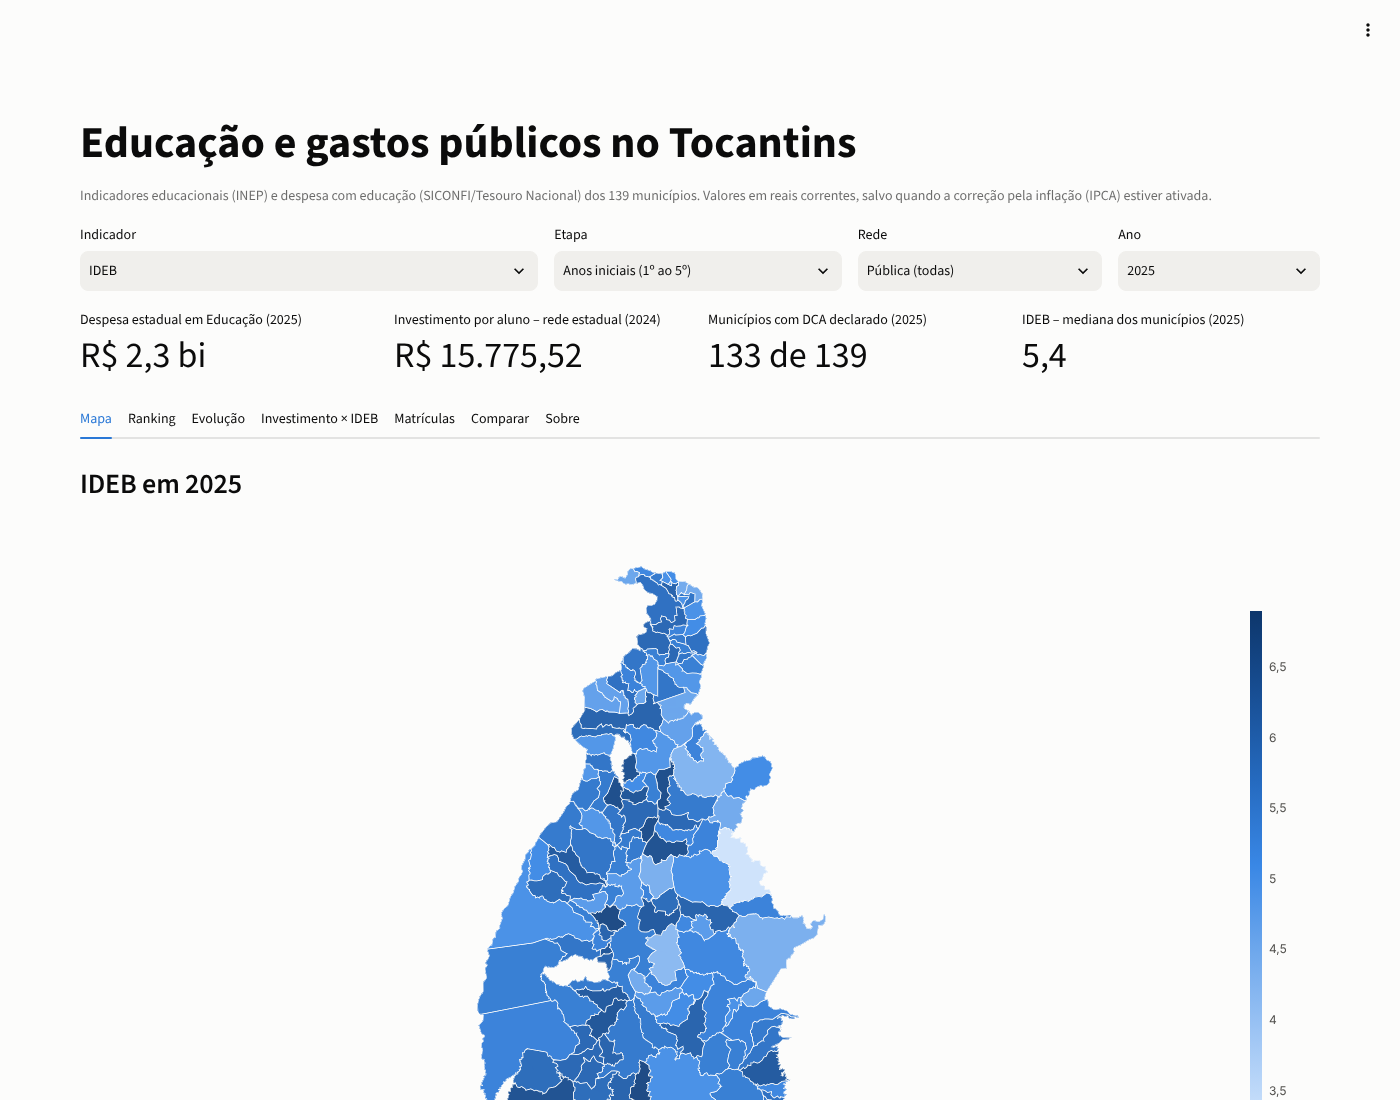
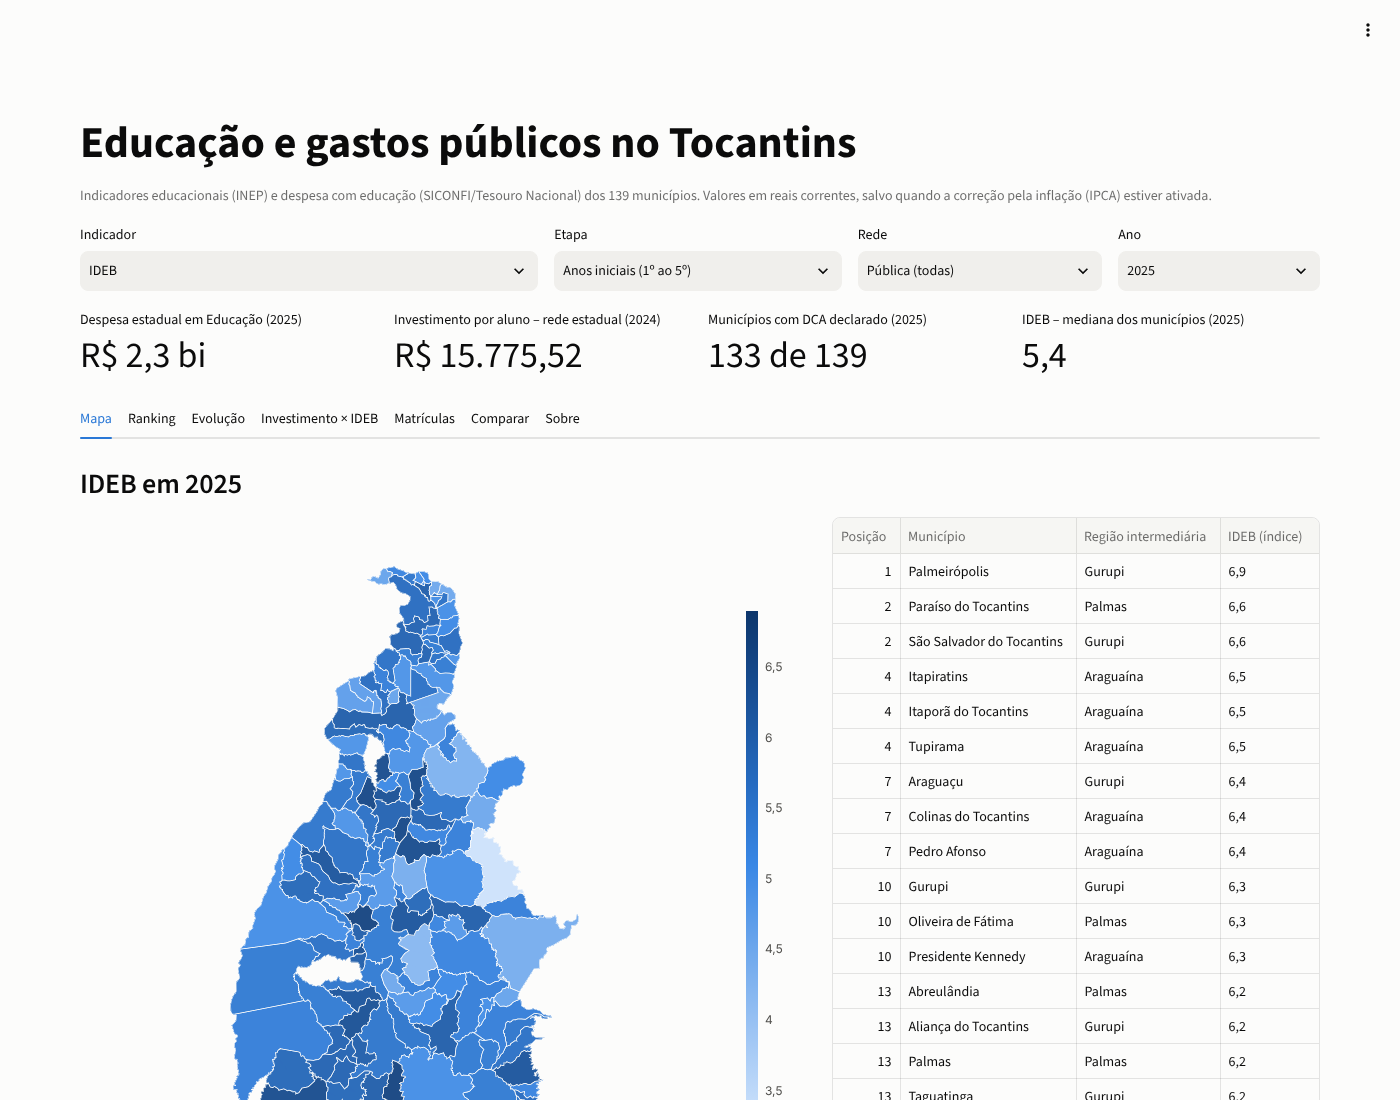
feat(painel): tabela acessível junto do mapa, com download em CSV (#36)
- tabela com os 139 municípios: posição (1 = maior valor, empates iguais),
  região, valor formatado em pt-BR e unidade (inclui R$ corrigidos pelo IPCA);
  municípios sem dado listados no fim
- download em CSV no padrão brasileiro (; e vírgula decimal, UTF-8 com BOM)
- legenda do mapa sobre municípios sem dado corrigida (não aparecem em branco
  no modo escuro)

Claude-Session: https://claude.ai/code/session_01RJwzVpxwH6RxEcpT1TuGAa

Changed region(s): [[0.1536, 0.4945, 0.5836, 1.0], [0.6143, 0.4636, 0.9214, 1.0]]

diff --git a/app/painel.py b/app/painel.py
@@ -181,10 +181,43 @@ with abas[0]:
     )
     sufixo = f" — valores corrigidos pelo IPCA, R$ de {ano_base}" if valores_reais else ""
     st.subheader(f"{indicador} em {ano}{sufixo}")
-    st.plotly_chart(layout(fig, 760), width="stretch")
-    sem_dado = len(municipios) - recorte["cod_municipio"].nunique()
-    if sem_dado:
-        st.caption(f"{sem_dado} municípios sem dado neste recorte aparecem em branco.")
+    col_mapa, col_tabela = st.columns([3, 2])
+    with col_mapa:
+        st.plotly_chart(layout(fig, 760), width="stretch")
+        sem_dado = len(municipios) - recorte["cod_municipio"].nunique()
+        if sem_dado:
+            st.caption(
+                f"{sem_dado} municípios sem dado neste recorte não aparecem no mapa; "
+                "eles estão no fim da tabela como “sem dado”."
+            )
+    with col_tabela:
+        # Mesma informação do mapa sem depender de cor: leitores de tela, números exatos
+        # e download. Posição 1 = maior valor.
+        tabela = ind.tabela_mapa(recorte, municipios, definicao)
+        unidade_valor = ind.unidade(definicao, valores_reais, ano_base)
+        st.dataframe(
+            tabela[["posicao", "nome_municipio", "regiao_intermediaria", "valor_formatado"]],
+            hide_index=True,
+            height=700,
+            width="stretch",
+            column_config={
+                "posicao": st.column_config.NumberColumn(
+                    "Posição", help="1 = maior valor; empates têm a mesma posição"
+                ),
+                "nome_municipio": st.column_config.TextColumn("Município"),
+                "regiao_intermediaria": st.column_config.TextColumn("Região intermediária"),
+                "valor_formatado": st.column_config.TextColumn(
+                    f"{definicao.rotulo_curto} ({unidade_valor})"
+                ),
+            },
+        )
+        st.download_button(
+            "Baixar tabela (CSV)",
+            data=ind.csv_tabela(tabela, indicador, ano, unidade_valor),
+            file_name=f"tocantins_{definicao.coluna}_{ano}{'_real' if valores_reais else ''}.csv",
+            mime="text/csv",
+            icon=":material/download:",
+        )
 
 # --- ranking ----------------------------------------------------------------------------
 with abas[1]:

diff --git a/app/indicadores.py b/app/indicadores.py
@@ -183,3 +183,48 @@ def nota_contexto(definicao: Indicador, ano: int) -> str | None:
     if definicao.coluna == "percentual_mde" and int(ano) in ANOS_EC_119:
         return NOTA_EC_119.format(ano=ano)
     return None
+
+
+def unidade(definicao: Indicador, valores_reais: bool = False, ano_base: int | None = None) -> str:
+    """Unidade do valor exibido, para cabeçalhos e para o CSV."""
+    if definicao.formatar is reais:
+        return f"R$ de {ano_base} (corrigido pelo IPCA)" if valores_reais else "R$ correntes"
+    if definicao.coluna in {"percentual_mde", "percentual_educacao"}:
+        return "%"
+    return "índice"
+
+
+def tabela_mapa(
+    recorte: pd.DataFrame, municipios: pd.DataFrame, definicao: Indicador
+) -> pd.DataFrame:
+    """Tabela acessível do mapa: todos os municípios, com posição e valor formatado.
+
+    A posição 1 é o maior valor (empates recebem a mesma posição). Municípios sem
+    dado no recorte aparecem no fim, com "sem dado", para que a tabela traga as
+    mesmas informações do mapa sem depender de cor.
+    """
+    base = municipios[["cod_municipio", "nome_municipio", "regiao_intermediaria"]].merge(
+        recorte[["cod_municipio", "valor"]], on="cod_municipio", how="left"
+    )
+    base["posicao"] = base["valor"].rank(method="min", ascending=False).astype("Int64")
+    base["valor_formatado"] = [
+        definicao.formatar(v) if not ausente(v) else "sem dado" for v in base["valor"]
+    ]
+    base = base.sort_values(["posicao", "nome_municipio"], na_position="last")
+    return base.reset_index(drop=True)
+
+
+def csv_tabela(tabela: pd.DataFrame, indicador: str, ano: int, unidade_valor: str) -> bytes:
+    """CSV no padrão brasileiro (``;`` e vírgula decimal, UTF-8 com BOM para o Excel)."""
+    saida = tabela.rename(
+        columns={
+            "posicao": "posicao",
+            "cod_municipio": "codigo_ibge",
+            "nome_municipio": "municipio",
+            "regiao_intermediaria": "regiao_intermediaria",
+        }
+    )[["posicao", "codigo_ibge", "municipio", "regiao_intermediaria", "valor"]].copy()
+    saida.insert(0, "indicador", indicador)
+    saida.insert(1, "ano", ano)
+    saida["unidade"] = unidade_valor
+    return saida.to_csv(sep=";", decimal=",", index=False).encode("utf-8-sig")

diff --git a/tests/test_painel.py b/tests/test_painel.py
@@ -182,3 +182,53 @@ def test_ano_base_ipca_em_banco_sem_deflator(tmp_path):
     with duckdb.connect(str(banco)) as con:
         con.execute("create schema marts")
     assert dados.ano_base_ipca(banco) is None
+
+
+def test_tabela_mapa_lista_todos_com_posicao_e_sem_dado():
+    municipios = pd.DataFrame(
+        {
+            "cod_municipio": [1, 2, 3, 4],
+            "nome_municipio": ["A", "B", "C", "D"],
+            "regiao_intermediaria": ["R1", "R1", "R2", "R2"],
+        }
+    )
+    recorte = pd.DataFrame({"cod_municipio": [1, 2, 3], "valor": [5.0, 6.5, 6.5]})
+    tabela = ind.tabela_mapa(recorte, municipios, ind.INDICADORES["IDEB"])
+    assert tabela["nome_municipio"].tolist() == ["B", "C", "A", "D"]
+    assert tabela["posicao"].tolist()[:3] == [1, 1, 3]  # empate na 1ª posição
+    assert pd.isna(tabela["posicao"].iloc[3])
+    assert tabela["valor_formatado"].tolist() == ["6,5", "6,5", "5,0", "sem dado"]
+
+
+def test_csv_tabela_no_padrao_brasileiro():
+    municipios = pd.DataFrame(
+        {
+            "cod_municipio": [1721000],
+            "nome_municipio": ["Palmas"],
+            "regiao_intermediaria": ["Palmas"],
+        }
+    )
+    recorte = pd.DataFrame({"cod_municipio": [1721000], "valor": [13849.74]})
+    nome = "Investimento por aluno (rede municipal)"
+    definicao = ind.INDICADORES[nome]
+    tabela = ind.tabela_mapa(recorte, municipios, definicao)
+    unidade = ind.unidade(definicao, valores_reais=True, ano_base=2025)
+    conteudo = ind.csv_tabela(tabela, nome, 2024, unidade)
+    assert conteudo.startswith("".encode())  # BOM: acentos corretos no Excel
+    linhas = conteudo.decode("utf-8-sig").splitlines()
+    assert (
+        linhas[0]
+        == "indicador;ano;posicao;codigo_ibge;municipio;regiao_intermediaria;valor;unidade"
+    )
+    assert (
+        linhas[1]
+        == f"{nome};2024;1;1721000;Palmas;Palmas;13849,74;R$ de 2025 (corrigido pelo IPCA)"
+    )
+
+
+def test_unidade_por_tipo_de_indicador():
+    assert ind.unidade(ind.INDICADORES["IDEB"]) == "índice"
+    mde = next(i for i in ind.INDICADORES.values() if i.coluna == "percentual_mde")
+    assert ind.unidade(mde) == "%"
+    invest = ind.INDICADORES["Investimento por aluno (rede municipal)"]
+    assert ind.unidade(invest) == "R$ correntes"

diff --git a/README.md b/README.md
@@ -72,7 +72,8 @@ Python 3.12 · httpx · DuckDB · dbt-duckdb · pandas · Streamlit · pytest ·
 
 O painel roda **localmente** com Streamlit e lê o banco DuckDB publicado pelo
 pipeline na branch [`dados`](https://github.com/rafantavares/dados-abertos-tocantins/tree/dados).
-Ele tem mapa coroplético, ranking, evolução temporal, investimento × IDEB,
+Ele tem mapa coroplético (acompanhado de uma tabela acessível com todos os municípios,
+ordenável e com download em CSV), ranking, evolução temporal, investimento × IDEB,
 matrículas por rede e comparação entre dois municípios.
 
 ![Mapa do IDEB por município](docs/img/painel-mapa.png)
